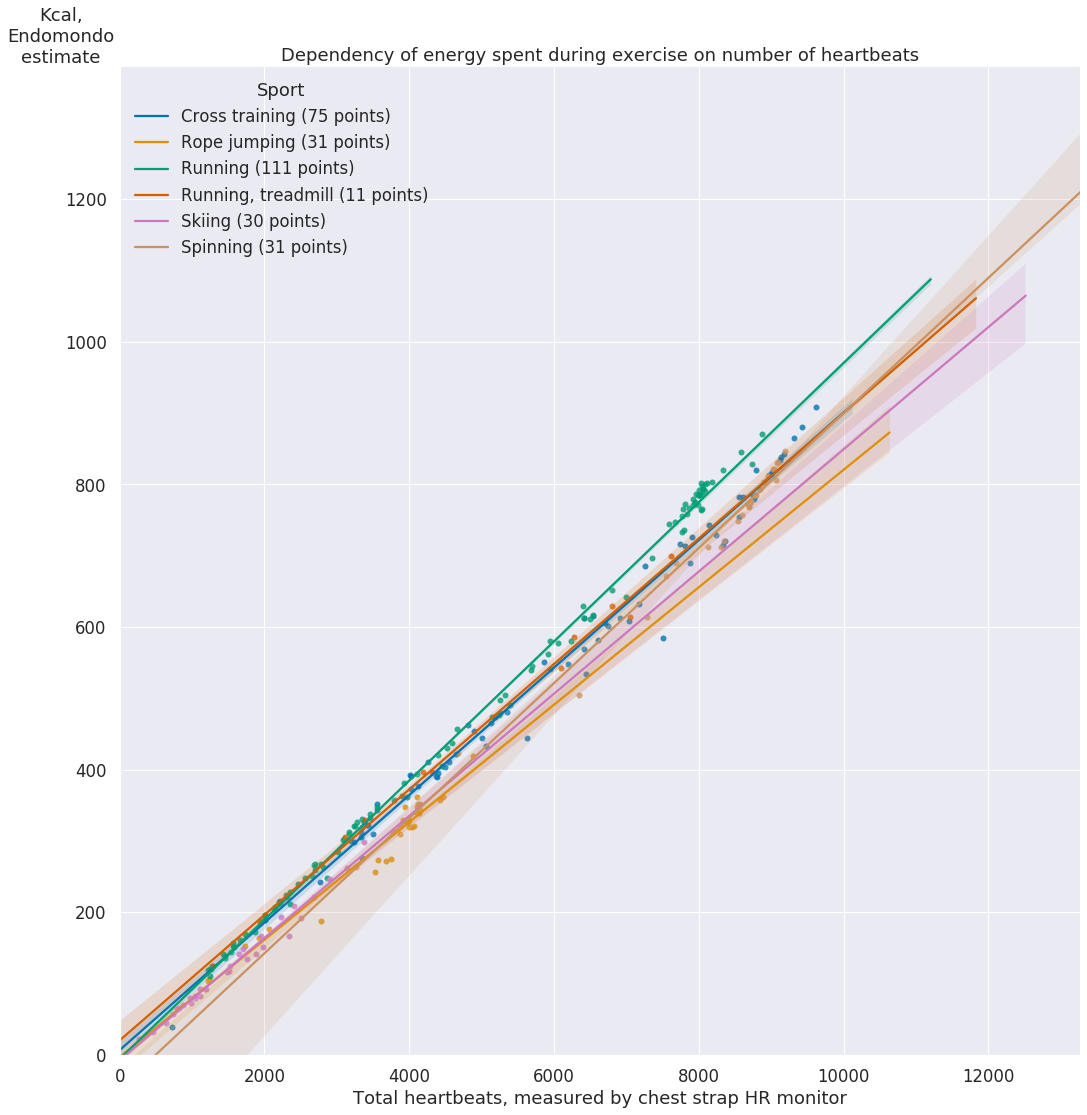
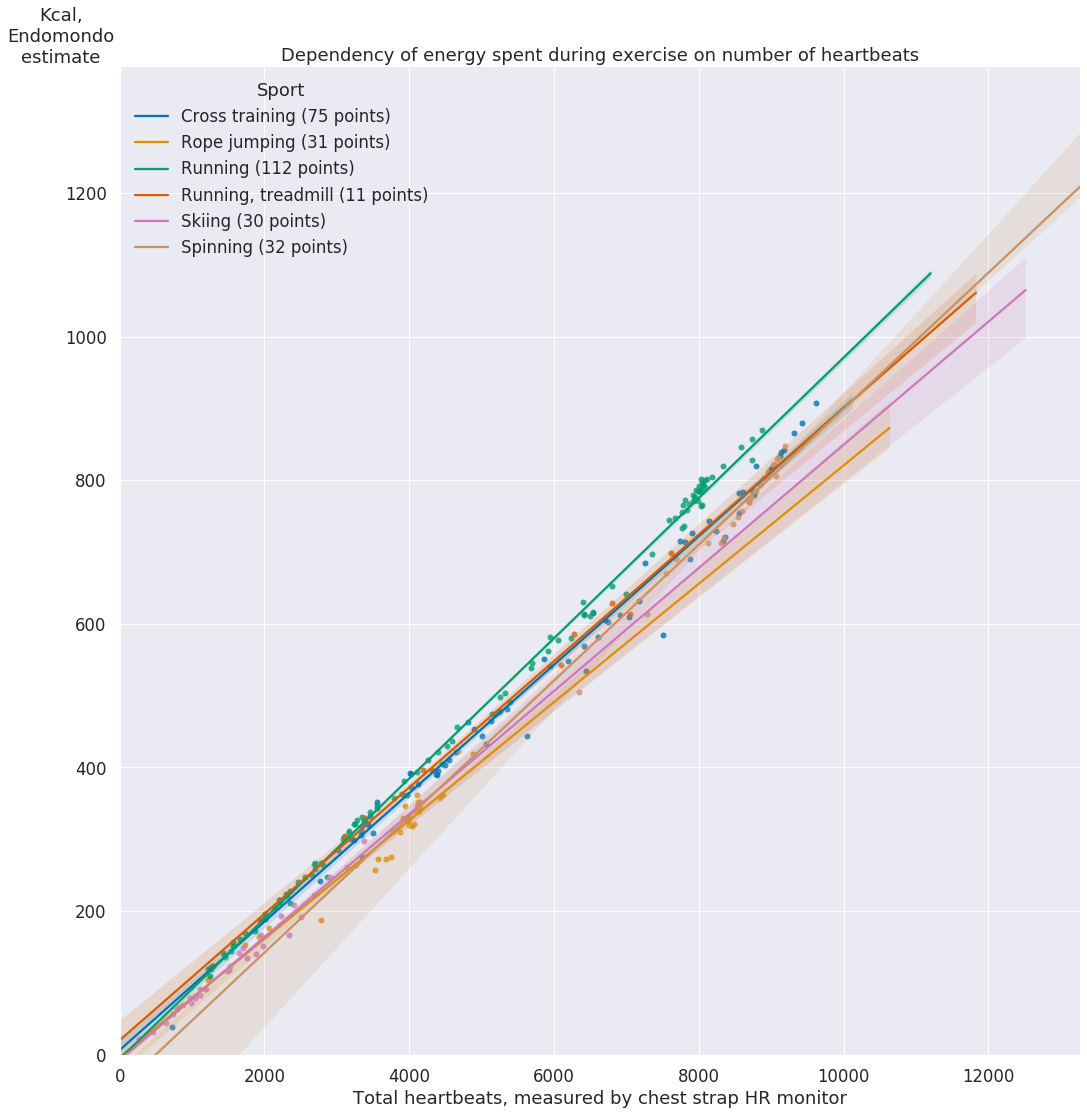
minor changes

diff --git a/lagrangians.html b/lagrangians.html
@@ -572,7 +572,7 @@ So, over the course of the following function I'm gonna communicate with you via
 
 
 <div class="output_subarea output_stream output_stdout output_text">
-<pre>{'no_of_equation': 2, 'eq': [-p(t) + Derivative(q(t), t), q(t) + Derivative(p(t), t)], 'func': [q(t), p(t)], 'order': {q(t): 1, p(t): 1}, 'func_coeff': {(0, q(t), 0): 0, (0, q(t), 1): 1, (0, p(t), 0): -1, (0, p(t), 1): 0, (1, q(t), 0): 1, (1, q(t), 1): 0, (1, p(t), 0): 0, (1, p(t), 1): 1}, 'is_linear': True, 'type_of_equation': 'type1'}
+<pre>{'no_of_equation': 2, 'eq': [-p(t) + Derivative(q(t), t), q(t) + Derivative(p(t), t)], 'func': [q(t), p(t)], 'order': {p(t): 1, q(t): 1}, 'func_coeff': {(0, q(t), 0): 0, (0, q(t), 1): 1, (0, p(t), 0): -1, (0, p(t), 1): 0, (1, q(t), 0): 1, (1, q(t), 1): 0, (1, p(t), 0): 0, (1, p(t), 1): 1}, 'is_linear': True, 'type_of_equation': 'type1'}
 </pre>
 </div>
 </div>
@@ -740,7 +740,7 @@ So, over the course of the following function I'm gonna communicate with you via
 
 
 <div class="output_subarea output_stream output_stdout output_text">
-<pre>{'no_of_equation': 2, 'eq': [-p(t) + Derivative(q(t), t), -q(t) + Derivative(p(t), t)], 'func': [q(t), p(t)], 'order': {q(t): 1, p(t): 1}, 'func_coeff': {(0, q(t), 0): 0, (0, q(t), 1): 1, (0, p(t), 0): -1, (0, p(t), 1): 0, (1, q(t), 0): -1, (1, q(t), 1): 0, (1, p(t), 0): 0, (1, p(t), 1): 1}, 'is_linear': True, 'type_of_equation': 'type1'}
+<pre>{'no_of_equation': 2, 'eq': [-p(t) + Derivative(q(t), t), -q(t) + Derivative(p(t), t)], 'func': [q(t), p(t)], 'order': {p(t): 1, q(t): 1}, 'func_coeff': {(0, q(t), 0): 0, (0, q(t), 1): 1, (0, p(t), 0): -1, (0, p(t), 1): 0, (1, q(t), 0): -1, (1, q(t), 1): 0, (1, p(t), 0): 0, (1, p(t), 1): 1}, 'is_linear': True, 'type_of_equation': 'type1'}
 </pre>
 </div>
 </div>
@@ -1098,7 +1098,7 @@ So, over the course of the following function I'm gonna communicate with you via
 
 
 <div class="output_subarea output_stream output_stdout output_text">
-<pre>{'no_of_equation': 2, 'eq': [-p(t)/q(t)**2 + Derivative(q(t), t), -p(t)**2/q(t)**3 + Derivative(p(t), t)], 'func': [q(t), p(t)], 'order': {q(t): 1, p(t): 1}, 'func_coeff': {(0, q(t), 0): 0, (0, q(t), 1): 1, (0, p(t), 0): -1/q(t)**2, (0, p(t), 1): 0, (1, q(t), 0): 0, (1, q(t), 1): 0, (1, p(t), 0): 0, (1, p(t), 1): 1}, 'is_linear': False, 'type_of_equation': 'type3'}
+<pre>{'no_of_equation': 2, 'eq': [-p(t)/q(t)**2 + Derivative(q(t), t), -p(t)**2/q(t)**3 + Derivative(p(t), t)], 'func': [q(t), p(t)], 'order': {p(t): 1, q(t): 1}, 'func_coeff': {(0, q(t), 0): 0, (0, q(t), 1): 1, (0, p(t), 0): -1/q(t)**2, (0, p(t), 1): 0, (1, q(t), 0): 0, (1, q(t), 1): 0, (1, p(t), 0): 0, (1, p(t), 1): 1}, 'is_linear': False, 'type_of_equation': 'type3'}
 </pre>
 </div>
 </div>
@@ -1380,7 +1380,7 @@ TODO huh? wolfram is solving it in complex numbers... <a href="https://www.wolfr
 
 
 <div class="output_subarea output_stream output_stdout output_text">
-<pre>{'no_of_equation': 2, 'eq': [-log(p(t)) + Derivative(q(t), t), 2*q(t) + Derivative(p(t), t)], 'func': [q(t), p(t)], 'order': {q(t): 1, p(t): 1}, 'func_coeff': {(0, q(t), 0): 0, (0, q(t), 1): 1, (0, p(t), 0): 0, (0, p(t), 1): 0, (1, q(t), 0): 2, (1, q(t), 1): 0, (1, p(t), 0): 0, (1, p(t), 1): 1}, 'is_linear': False, 'type_of_equation': 'type3'}
+<pre>{'no_of_equation': 2, 'eq': [-log(p(t)) + Derivative(q(t), t), 2*q(t) + Derivative(p(t), t)], 'func': [q(t), p(t)], 'order': {p(t): 1, q(t): 1}, 'func_coeff': {(0, q(t), 0): 0, (0, q(t), 1): 1, (0, p(t), 0): 0, (0, p(t), 1): 0, (1, q(t), 0): 2, (1, q(t), 1): 0, (1, p(t), 0): 0, (1, p(t), 1): 1}, 'is_linear': False, 'type_of_equation': 'type3'}
 </pre>
 </div>
 </div>

diff --git a/promnesia.html b/promnesia.html
@@ -175,6 +175,7 @@
 <li><a href="#org0000043">36. <span class="priority">[B]</span> <span class="timestamp-wrapper"><span class="timestamp">[2020-01-11 19:07]</span></span> silo - IndieWeb   <span class="tag"><span class="gr">gr</span> <span class="cannon">cannon</span></span></a></li>
 <li><a href="#org0000044">37. <span class="todo TODO">TODO</span> I wanted an extension like that for several years   <span class="tag"><span class="promnesia">promnesia</span></span></a></li>
 <li><a href="#org0000045">38. <span class="todo TODO">TODO</span> not sure how to decouple in the future?   <span class="tag"><span class="promnesia">promnesia</span> <span class="mypkg">mypkg</span> <span class="blog">blog</span></span></a></li>
+<li><a href="#org0000046">39. <span class="todo TODO">TODO</span> <span class="priority">[B]</span> <span class="timestamp-wrapper"><span class="timestamp">[2019-12-26 02:28]</span></span> Thoughts on your latest post, and more - karlicoss@gmail.com - Gmail   <span class="tag"><span class="promnesia">promnesia</span></span></a></li>
 </ul>
 </div>
 </div>
@@ -614,6 +615,15 @@ when I finally got to implement it I had realised how much stuff needs to be don
 <div class="outline-2" id="outline-container-org0000045">
 <h2 id="org0000045"><a class="headerlink" href="#org0000045">¶</a><span class="section-number-2">38</span> <span class="todo TODO">TODO</span> not sure how to decouple in the future?   <span class="tag"><span class="promnesia">promnesia</span> <span class="mypkg">mypkg</span> <span class="blog">blog</span></span></h2>
 <div class="outline-text-2" id="text-38">
+</div>
+</div>
+<div class="outline-2" id="outline-container-org0000046">
+<h2 id="org0000046"><a class="headerlink" href="#org0000046">¶</a><span class="section-number-2">39</span> <span class="todo TODO">TODO</span> <span class="priority">[B]</span> <span class="timestamp-wrapper"><span class="timestamp">[2019-12-26 02:28]</span></span> Thoughts on your latest post, and more - karlicoss@gmail.com - Gmail   <span class="tag"><span class="promnesia">promnesia</span></span></h2>
+<div class="outline-text-2" id="text-39">
+<p>
+<a href="https://mail.google.com/mail/u/0/#inbox/FMfcgxwGCQbNVWrzbpHLdZGlNQQjTwhL">https://mail.google.com/mail/u/0/#inbox/FMfcgxwGCQbNVWrzbpHLdZGlNQQjTwhL</a>
+Selection:
+ide tangent: assuming a well-standardized meta-tagging format/structure, my browser should be able to tell a target site "my user is interested in: programming, life-hacking, ux design so please prioritize the content you have about that for them". Also, if I stumble onto someone's blog from the internet at large, my browser should know that we follow each other - why not float that information? Or mutual followers? Or that I've read 3 other of your posts? /tangent</p>
 </div>
 </div>
 

diff --git a/wave.html b/wave.html
@@ -867,7 +867,7 @@ $\displaystyle \left\{\left( 0, \  0\right)\right\}$
 
 
 <div class="output_latex output_subarea output_execute_result">
-$\displaystyle \left\{\left( 0, \  0, \  E\right), \left( C_{2}, \  - C_{2}, \  0\right)\right\}$
+$\displaystyle \left\{\left( 0, \  0, \  E\right), \left( - C_{2}, \  C_{2}, \  0\right)\right\}$
 </div>
 
 </div>
@@ -1237,7 +1237,7 @@ $\displaystyle X{\left(x \right)} = C_{1} e^{- k x} + C_{2} e^{k x}$
 
 
 <div class="output_subarea output_stream output_stdout output_text">
-<pre>Solutions: {(C₂, C₁, 0), (C₂, C₁, {2⋅n⋅ⅈ⋅π | n ∊ ℤ})}
+<pre>Solutions: {(C₁, C₂, 0), (C₁, C₂, {2⋅n⋅ⅈ⋅π | n ∊ ℤ})}
 </pre>
 </div>
 </div>
@@ -1298,7 +1298,7 @@ $\displaystyle X{\left(x \right)} = C_{1} e^{- k x} + C_{2} e^{k x}$
 
 
 <div class="output_subarea output_stream output_stdout output_text">
-<pre>$C_1$ = C₂; C2 = C₁; k = {2⋅n⋅ⅈ⋅π | n ∊ ℤ}
+<pre>$C_1$ = C₁; C2 = C₂; k = {2⋅n⋅ⅈ⋅π | n ∊ ℤ}
 </pre>
 </div>
 </div>
@@ -1356,7 +1356,7 @@ $\displaystyle X{\left(x \right)} = C_{1} e^{- k x} + C_{2} e^{k x}$
 
 
 <div class="output_latex output_subarea ">
-$\displaystyle \left\{C_{2}\right\} \times \left\{C_{1}\right\} \times \left\{2 n i \pi\; |\; n \in \mathbb{Z}\right\}$
+$\displaystyle \left\{C_{1}\right\} \times \left\{C_{2}\right\} \times \left\{2 n i \pi\; |\; n \in \mathbb{Z}\right\}$
 </div>
 
 </div>
@@ -1428,7 +1428,7 @@ $\displaystyle \left\{C_{2}\right\} \times \left\{C_{1}\right\} \times \left\{2 
 
 <div class="output_subarea output_stream output_stdout output_text">
 <pre>                 ⎧ 2⋅ⅈ⋅π⋅n⋅x         -2⋅ⅈ⋅π⋅n⋅x             ⎫
-Solutions basis: ⎨ℯ         ⋅A[n] + ℯ          ⋅B[n] | n ∊ ℤ⎬
+Solutions basis: ⎨ℯ         ⋅B[n] + ℯ          ⋅A[n] | n ∊ ℤ⎬
                  ⎩                                          ⎭
 </pre>
 </div>
@@ -1538,7 +1538,7 @@ TODO this might be important when we solve something like schrodinger equation, 
 
 
 <div class="output_latex output_subarea ">
-$\displaystyle \sum_{n=-\infty}^{\infty} \left(e^{2 i \pi n x} {A}_{n} + e^{- 2 i \pi n x} {B}_{n}\right)$
+$\displaystyle \sum_{n=-\infty}^{\infty} \left(e^{2 i \pi n x} {B}_{n} + e^{- 2 i \pi n x} {A}_{n}\right)$
 </div>
 
 </div>

diff --git a/mypkg.html b/mypkg.html
@@ -373,7 +373,7 @@ I'm using <a href="https://github.com/karlicoss/kobuddy">kobuddy</a> to access m
 The task looks like this:
 </p>
 <div class="org-src-container">
-<pre class="src src-org"><span class="org-org-level-1">* </span><span class="org-org-todo">TODO</span><span class="org-org-level-1"> </span><span class="org-org-priority">[#C]</span><span class="org-org-level-1"> sync </span><span class="org-org-link"><a href="https://goodreads.com">reading progress</a></span><span class="org-org-level-1"> with kobo </span>
+<pre class="src src-org"><span class="org-org-level-1">* </span><span class="org-org-todo">TODO</span><span class="org-org-level-1"> </span><span class="org-org-priority">[#C] </span><span class="org-org-level-1">sync </span><span class="org-org-link"><a href="https://goodreads.com">reading progress</a></span><span class="org-org-level-1"> with kobo </span>
   <span class="org-org-special-keyword">DEADLINE:</span> <span class="org-org-date">&lt;2019-11-24 Sun .+4w -0d&gt;</span>
 <span class="org-org-link"><a href="eshell: with_my python3 -c 'import my.books.kobo as kobo; kobo.print_progress()'">eshell: with_my python3 -c 'import my.books.kobo as kobo; kobo.print_progress()'</a></span>
 </pre>

diff --git a/heartbeats_vs_kcals.html b/heartbeats_vs_kcals.html
@@ -676,7 +676,7 @@ E.g. I only have HR data for the last couple of years or so, so data provider do
 
 <div class="output_subarea output_stream output_stdout output_text">
 <pre>Regression coefficient: 0.093
-Free term: -9.037
+Free term: -9.102
 </pre>
 </div>
 </div>
@@ -731,7 +731,7 @@ Free term: -9.037
 
 
 <div class="output_subarea output_stream output_stdout output_text">
-<pre>8063.101
+<pre>8064.637
 </pre>
 </div>
 </div>
